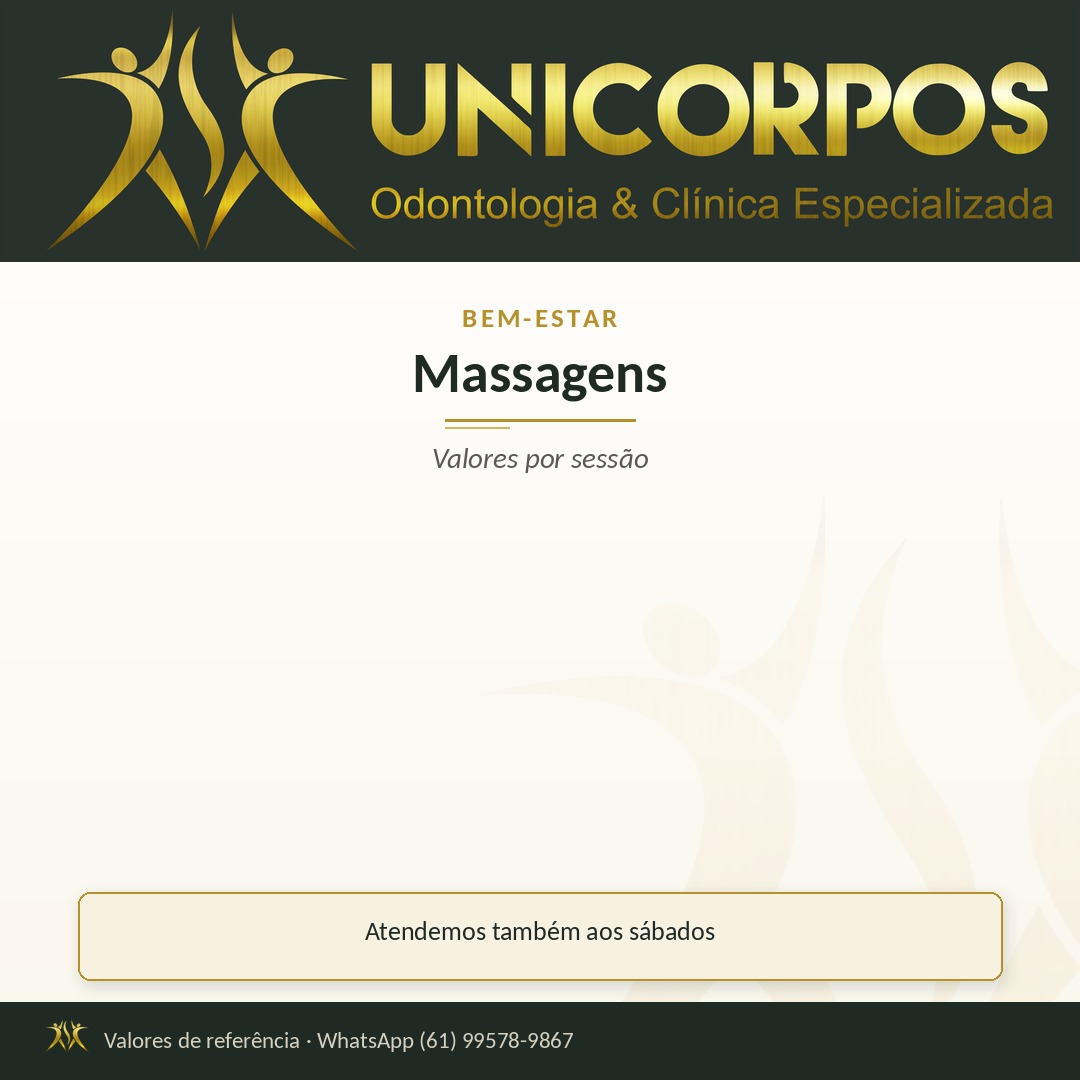
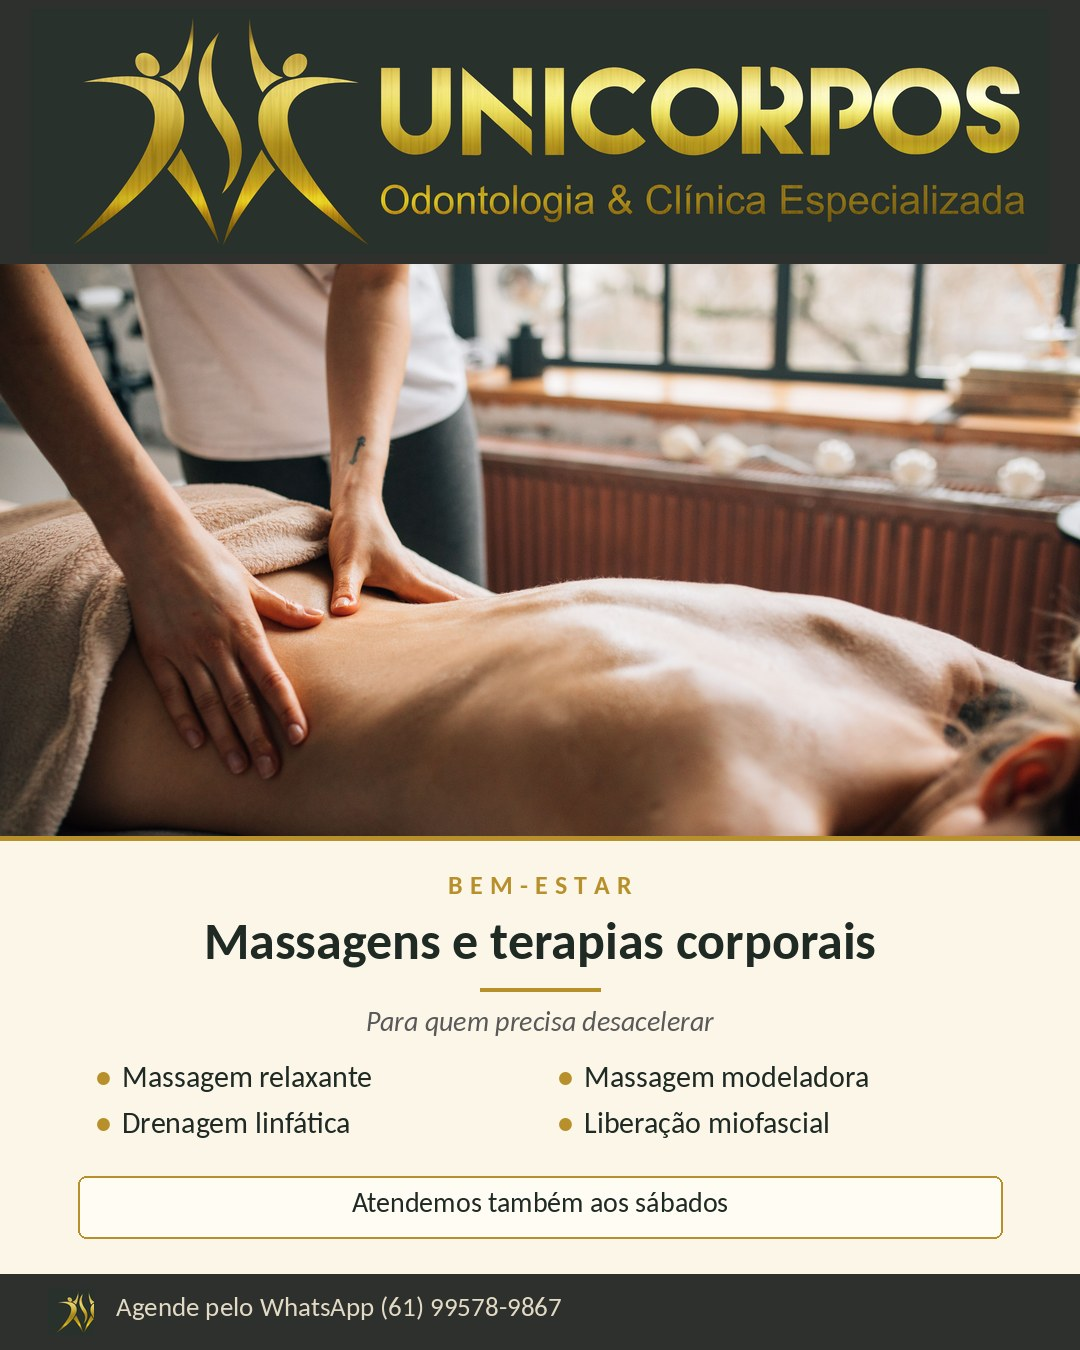
Dia 12: troca 06_massagens pelo card com foto

diff --git a/ferramentas/gerar_card_foto.py b/ferramentas/gerar_card_foto.py
@@ -1,0 +1,252 @@
+#!/usr/bin/env python3
+# -*- coding: utf-8 -*-
+"""
+Gera card de feed 1080x1350 (4:5) com FOTO + identidade UNICORPOS.
+
+Gabarito (mesma faixa de topo dos cards 1080x1080 ja existentes, para a logo
+sair do mesmo tamanho na grade do perfil):
+
+    y      0 -  264   faixa escura com a logo centralizada
+    y    264 -  900   foto (crop 1080x636, centralizado no ponto de interesse)
+    y    900 - 1274   bloco creme com titulo e itens
+    y   1274 - 1350   rodape escuro com contato
+
+Paleta oficial, sem variacao:
+    GOLD #B8902B   DARK #1F2A24   GRAY #595959   LIGHT_BG #FBF6E8
+
+Tipografia: Carlito (metricamente identica a Calibri, fonte da marca).
+
+Uso:
+    python3 ferramentas/gerar_card_foto.py FOTO.jpg SAIDA.png
+"""
+
+import os
+import sys
+
+from PIL import Image, ImageDraw, ImageFont, ImageFilter
+
+AQUI = os.path.dirname(os.path.dirname(os.path.abspath(__file__)))
+RAIZ = os.path.dirname(os.path.dirname(AQUI))
+LOGO = os.path.join(RAIZ, "assets", "brand", "UNICORPOS_logo.png")
+
+GOLD = (184, 144, 43)
+DARK = (31, 42, 36)
+DARK_BAND = (46, 48, 45)
+GRAY = (89, 89, 89)
+LIGHT_BG = (251, 246, 232)
+WHITE = (254, 253, 250)
+
+F = "/usr/share/fonts/truetype/crosextra/Carlito-%s.ttf"
+W, H = 1080, 1350
+TOPO = 264
+FOTO_FIM = 840
+RODAPE = 1274
+X0, X1 = 78, W - 78
+
+EYEBROW = "BEM-ESTAR"
+TITULO = "Massagens e terapias corporais"
+SUB = "Para quem precisa desacelerar"
+ITENS = [
+    "Massagem relaxante",
+    "Massagem modeladora",
+    "Drenagem linfática",
+    "Liberação miofascial",
+]
+CAIXA = "Atendemos também aos sábados"
+CONTATO = "Agende pelo WhatsApp (61) 99578-9867"
+
+
+def fonte(peso, tam):
+    return ImageFont.truetype(F % peso, int(round(tam)))
+
+
+def larg(d, t, f):
+    a, _, c, _ = d.textbbox((0, 0), t, font=f)
+    return c - a
+
+
+def centro(d, y, t, f, cor):
+    d.text(((W - larg(d, t, f)) / 2, y), t, font=f, fill=cor)
+
+
+def cobrir(img, alvo_w, alvo_h, foco_y=0.42):
+    """Redimensiona cobrindo a area e corta mantendo proporcao."""
+    escala = max(alvo_w / img.width, alvo_h / img.height)
+    novo = img.resize(
+        (int(round(img.width * escala)), int(round(img.height * escala))),
+        Image.LANCZOS,
+    )
+    x = (novo.width - alvo_w) // 2
+    y = int(round((novo.height - alvo_h) * foco_y))
+    y = max(0, min(y, novo.height - alvo_h))
+    return novo.crop((x, y, x + alvo_w, y + alvo_h))
+
+
+def montar(caminho_foto, saida):
+    card = Image.new("RGB", (W, H), LIGHT_BG)
+    d = ImageDraw.Draw(card)
+
+    # ---- faixa de topo + logo
+    d.rectangle([0, 0, W, TOPO], fill=DARK_BAND)
+    logo = Image.open(LOGO).convert("RGBA")
+    lw = W - 60
+    lh = int(round(lw * logo.height / logo.width))  # 4,13:1 preservado
+    logo = logo.resize((lw, lh), Image.LANCZOS)
+    card.paste(logo, ((W - lw) // 2, (TOPO - lh) // 2), logo)
+
+    # ---- foto
+    foto = Image.open(caminho_foto).convert("RGB")
+    foto = cobrir(foto, W, FOTO_FIM - TOPO)
+    card.paste(foto, (0, TOPO))
+
+    # filete dourado separando foto e conteudo
+    d.rectangle([0, FOTO_FIM - 4, W, FOTO_FIM], fill=GOLD)
+
+    # ---- bloco de conteudo
+    y = FOTO_FIM + 34
+    f_eye = fonte("Bold", 26)
+    d.text(
+        ((W - larg(d, EYEBROW, f_eye) - 7 * len(EYEBROW)) / 2, y),
+        EYEBROW,
+        font=f_eye,
+        fill=GOLD,
+        # espacamento entre letras manual
+    )
+    # redesenha com tracking (Pillow nao tem letter-spacing nativo)
+    d.rectangle([0, y - 4, W, y + 34], fill=LIGHT_BG)
+    tracking = 7
+    total = sum(larg(d, c, f_eye) + tracking for c in EYEBROW) - tracking
+    x = (W - total) / 2
+    for c in EYEBROW:
+        d.text((x, y), c, font=f_eye, fill=GOLD)
+        x += larg(d, c, f_eye) + tracking
+    y += 46
+
+    f_tit = fonte("Bold", 52)
+    centro(d, y, TITULO, f_tit, DARK)
+    y += 68
+
+    d.rectangle([(W - 120) / 2, y, (W + 120) / 2, y + 3], fill=GOLD)
+    y += 22
+
+    f_sub = fonte("Italic", 28)
+    centro(d, y, SUB, f_sub, GRAY)
+    y += 54
+
+    # ---- itens em duas colunas com bullet dourado
+    f_it = fonte("Regular", 30)
+    f_bu = fonte("Bold", 30)
+    col_x = [X0 + 18, W // 2 + 18]
+    linha_h = 46
+    for i, item in enumerate(ITENS):
+        cx = col_x[i % 2]
+        cy = y + (i // 2) * linha_h
+        d.text((cx, cy), "•", font=f_bu, fill=GOLD)
+        d.text((cx + 26, cy), item, font=f_it, fill=DARK)
+    y += 2 * linha_h + 20
+
+    # ---- caixa de destaque padrao
+    cx0, cx1 = X0, X1
+    cy0 = y
+    cy1 = y + 62
+    d.rounded_rectangle(
+        [cx0, cy0, cx1, cy1], radius=8, fill=(255, 252, 243), outline=GOLD, width=2
+    )
+    f_cx = fonte("Regular", 28)
+    centro(d, cy0 + 15, CAIXA, f_cx, DARK)
+
+    # ---- rodape
+    d.rectangle([0, RODAPE, W, H], fill=DARK_BAND)
+    marca = Image.open(LOGO).convert("RGBA")
+    marca = marca.crop((0, 0, 1234, 1234))  # simbolo (bonecos) do lado esquerdo
+    mh = 46
+    mw = int(round(marca.width * mh / marca.height))
+    marca = marca.resize((mw, mh), Image.LANCZOS)
+    card.paste(marca, (X0 - 30, RODAPE + (H - RODAPE - mh) // 2), marca)
+    f_rod = fonte("Regular", 27)
+    d.text(
+        (X0 + mw - 8, RODAPE + (H - RODAPE - 34) // 2),
+        CONTATO,
+        font=f_rod,
+        fill=(226, 218, 196),
+    )
+
+    card.save(saida, "PNG", optimize=True)
+    print("gerado:", saida, card.size)
+
+
+def montar_story(caminho_foto, saida):
+    """Versao 9:16 (1080x1920) para Stories.
+
+    Areas de seguranca do Instagram: 250 px no topo (nome do perfil) e 250 px
+    na base (campo de resposta). Todo o texto fica entre y=420 e y=1620.
+    """
+    SW, SH = 1080, 1920
+    FOTO_Y0, FOTO_Y1 = 530, 1130
+    story = Image.new("RGB", (SW, SH), DARK)
+    d = ImageDraw.Draw(story)
+
+    # ---- logo dentro da area segura do topo
+    logo = Image.open(LOGO).convert("RGBA")
+    lw = 820
+    lh = int(round(lw * logo.height / logo.width))
+    logo = logo.resize((lw, lh), Image.LANCZOS)
+    story.paste(logo, ((SW - lw) // 2, 270), logo)
+
+    # ---- faixa da foto (mantem a composicao original, sem zoom excessivo)
+    foto = Image.open(caminho_foto).convert("RGB")
+    story.paste(cobrir(foto, SW, FOTO_Y1 - FOTO_Y0, foco_y=0.45), (0, FOTO_Y0))
+    d.rectangle([0, FOTO_Y0 - 4, SW, FOTO_Y0], fill=GOLD)
+    d.rectangle([0, FOTO_Y1, SW, FOTO_Y1 + 4], fill=GOLD)
+
+    # ---- texto
+    y = 1190
+    f_eye = fonte("Bold", 30)
+    tracking = 8
+    total = sum(larg(d, c, f_eye) + tracking for c in EYEBROW) - tracking
+    x = (SW - total) / 2
+    for c in EYEBROW:
+        d.text((x, y), c, font=f_eye, fill=GOLD)
+        x += larg(d, c, f_eye) + tracking
+    y += 55
+
+    f_tit = fonte("Bold", 62)
+    for linha in ["Massagens e terapias", "corporais"]:
+        d.text(((SW - larg(d, linha, f_tit)) / 2, y), linha, font=f_tit, fill=WHITE)
+        y += 76
+    y += 14
+
+    d.rectangle([(SW - 140) / 2, y, (SW + 140) / 2, y + 4], fill=GOLD)
+    y += 32
+
+    f_it = fonte("Regular", 34)
+    for linha in [
+        "Relaxante  ·  Modeladora",
+        "Drenagem linfática  ·  Liberação miofascial",
+    ]:
+        d.text(
+            ((SW - larg(d, linha, f_it)) / 2, y), linha, font=f_it, fill=(226, 218, 196)
+        )
+        y += 52
+    y += 26
+
+    # ---- CTA (acima da area de resposta do Instagram)
+    f_cta = fonte("Bold", 34)
+    t = "WhatsApp (61) 99578-9867"
+    tw = larg(d, t, f_cta)
+    bx0, bx1 = (SW - tw) / 2 - 46, (SW + tw) / 2 + 46
+    d.rounded_rectangle([bx0, y, bx1, y + 76], radius=38, fill=GOLD)
+    d.text(((SW - tw) / 2, y + 18), t, font=f_cta, fill=(255, 253, 246))
+
+    story.save(saida, "PNG", optimize=True)
+    print("gerado:", saida, story.size)
+
+
+if __name__ == "__main__":
+    if len(sys.argv) < 3:
+        sys.exit(__doc__)
+    if "--story" in sys.argv:
+        args = [a for a in sys.argv[1:] if a != "--story"]
+        montar_story(args[0], args[1])
+    else:
+        montar(sys.argv[1], sys.argv[2])

diff --git a/ferramentas/gerar_banner_vaga.py b/ferramentas/gerar_banner_vaga.py
@@ -1,0 +1,143 @@
+#!/usr/bin/env python3
+# -*- coding: utf-8 -*-
+"""
+Banner de vaga (recrutamento) no padrao UNICORPOS — 1080x1350.
+
+Pensado para disparo em WhatsApp (grupos e status): texto grande, poucas
+linhas, contraste alto, tudo legivel na miniatura do chat.
+
+Gabarito:
+    y      0 -  264   faixa escura com a logo
+    y    264 - 1230   corpo creme (chapeu, titulo, local, requisitos)
+    y   1230 - 1350   faixa escura com o CTA
+
+Paleta oficial, sem variacao:
+    GOLD #B8902B   DARK #1F2A24   GRAY #595959   LIGHT_BG #FBF6E8
+
+Uso:
+    python3 ferramentas/gerar_banner_vaga.py SAIDA.png
+"""
+
+import os
+import sys
+
+from PIL import Image, ImageDraw, ImageFont
+
+AQUI = os.path.dirname(os.path.dirname(os.path.abspath(__file__)))
+RAIZ = os.path.dirname(os.path.dirname(AQUI))
+LOGO = os.path.join(RAIZ, "assets", "brand", "UNICORPOS_logo.png")
+
+GOLD = (184, 144, 43)
+DARK = (31, 42, 36)
+DARK_BAND = (46, 48, 45)
+GRAY = (89, 89, 89)
+LIGHT_BG = (251, 246, 232)
+
+F = "/usr/share/fonts/truetype/crosextra/Carlito-%s.ttf"
+W, H = 1080, 1350
+TOPO = 264
+RODAPE = 1170
+X0, X1 = 78, W - 78
+
+CHAPEU = "ESTAMOS CONTRATANDO"
+TITULO = "Clínico(a) Médico(a)"
+LOCAL = "Planaltina/DF · atendimento na clínica"
+REQ_TITULO = "Requisitos"
+REQUISITOS = [
+    "Graduação em Medicina",
+    "CRM-DF ativo e regular",
+    "Experiência em atendimento ambulatorial",
+    "Perfil acolhedor e trabalho em equipe",
+]
+CAIXA = "Vínculo e carga horária combinados na entrevista"
+CTA = "Envie seu currículo"
+CTA_WPP = "WhatsApp (61) 99578-9867"
+CTA_MAIL = "crm@unicorpos.com.br"
+
+
+def fonte(peso, tam):
+    return ImageFont.truetype(F % peso, int(round(tam)))
+
+
+def larg(d, t, f):
+    a, _, c, _ = d.textbbox((0, 0), t, font=f)
+    return c - a
+
+
+def centro(d, y, t, f, cor):
+    d.text(((W - larg(d, t, f)) / 2, y), t, font=f, fill=cor)
+
+
+def tracking(d, y, t, f, cor, esp):
+    total = sum(larg(d, c, f) + esp for c in t) - esp
+    x = (W - total) / 2
+    for c in t:
+        d.text((x, y), c, font=f, fill=cor)
+        x += larg(d, c, f) + esp
+
+
+def montar(saida):
+    card = Image.new("RGB", (W, H), LIGHT_BG)
+    d = ImageDraw.Draw(card)
+
+    # ---- faixa de topo + logo
+    d.rectangle([0, 0, W, TOPO], fill=DARK_BAND)
+    logo = Image.open(LOGO).convert("RGBA")
+    lw = W - 60
+    lh = int(round(lw * logo.height / logo.width))  # 4,13:1 preservado
+    logo = logo.resize((lw, lh), Image.LANCZOS)
+    card.paste(logo, ((W - lw) // 2, (TOPO - lh) // 2), logo)
+
+    # ---- chapeu
+    y = TOPO + 78
+    tracking(d, y, CHAPEU, fonte("Bold", 30), GOLD, 8)
+    y += 74
+
+    # ---- titulo
+    f_tit = fonte("Bold", 74)
+    centro(d, y, TITULO, f_tit, DARK)
+    y += 104
+
+    d.rectangle([(W - 140) / 2, y, (W + 140) / 2, y + 4], fill=GOLD)
+    y += 34
+
+    centro(d, y, LOCAL, fonte("Italic", 30), GRAY)
+    y += 96
+
+    # ---- caixa de requisitos (padrao: fundo creme + borda dourada)
+    f_req_tit = fonte("Bold", 32)
+    f_req = fonte("Regular", 32)
+    f_bu = fonte("Bold", 32)
+    linha_h = 54
+    bh = 44 + 46 + len(REQUISITOS) * linha_h + 20
+    d.rounded_rectangle(
+        [X0, y, X1, y + bh], radius=10, fill=(255, 252, 243), outline=GOLD, width=3
+    )
+    ty = y + 30
+    d.text((X0 + 44, ty), REQ_TITULO, font=f_req_tit, fill=GOLD)
+    ty += 60
+    for item in REQUISITOS:
+        d.text((X0 + 44, ty), "•", font=f_bu, fill=GOLD)
+        d.text((X0 + 76, ty), item, font=f_req, fill=DARK)
+        ty += linha_h
+    y += bh + 56
+
+    # ---- faixa escura de observacao
+    d.rounded_rectangle([X0, y, X1, y + 76], radius=10, fill=DARK)
+    centro(d, y + 21, CAIXA, fonte("Regular", 29), (233, 226, 208))
+
+    # ---- rodape com CTA (WhatsApp + e-mail)
+    d.rectangle([0, RODAPE, W, H], fill=DARK_BAND)
+    d.rectangle([0, RODAPE, W, RODAPE + 5], fill=GOLD)
+    centro(d, RODAPE + 26, CTA, fonte("Regular", 30), (198, 194, 180))
+    centro(d, RODAPE + 68, CTA_WPP, fonte("Bold", 38), (233, 199, 108))
+    centro(d, RODAPE + 118, CTA_MAIL, fonte("Regular", 31), (222, 216, 200))
+
+    card.save(saida, "PNG", optimize=True)
+    print("gerado:", saida, card.size)
+
+
+if __name__ == "__main__":
+    if len(sys.argv) < 2:
+        sys.exit(__doc__)
+    montar(sys.argv[1])
